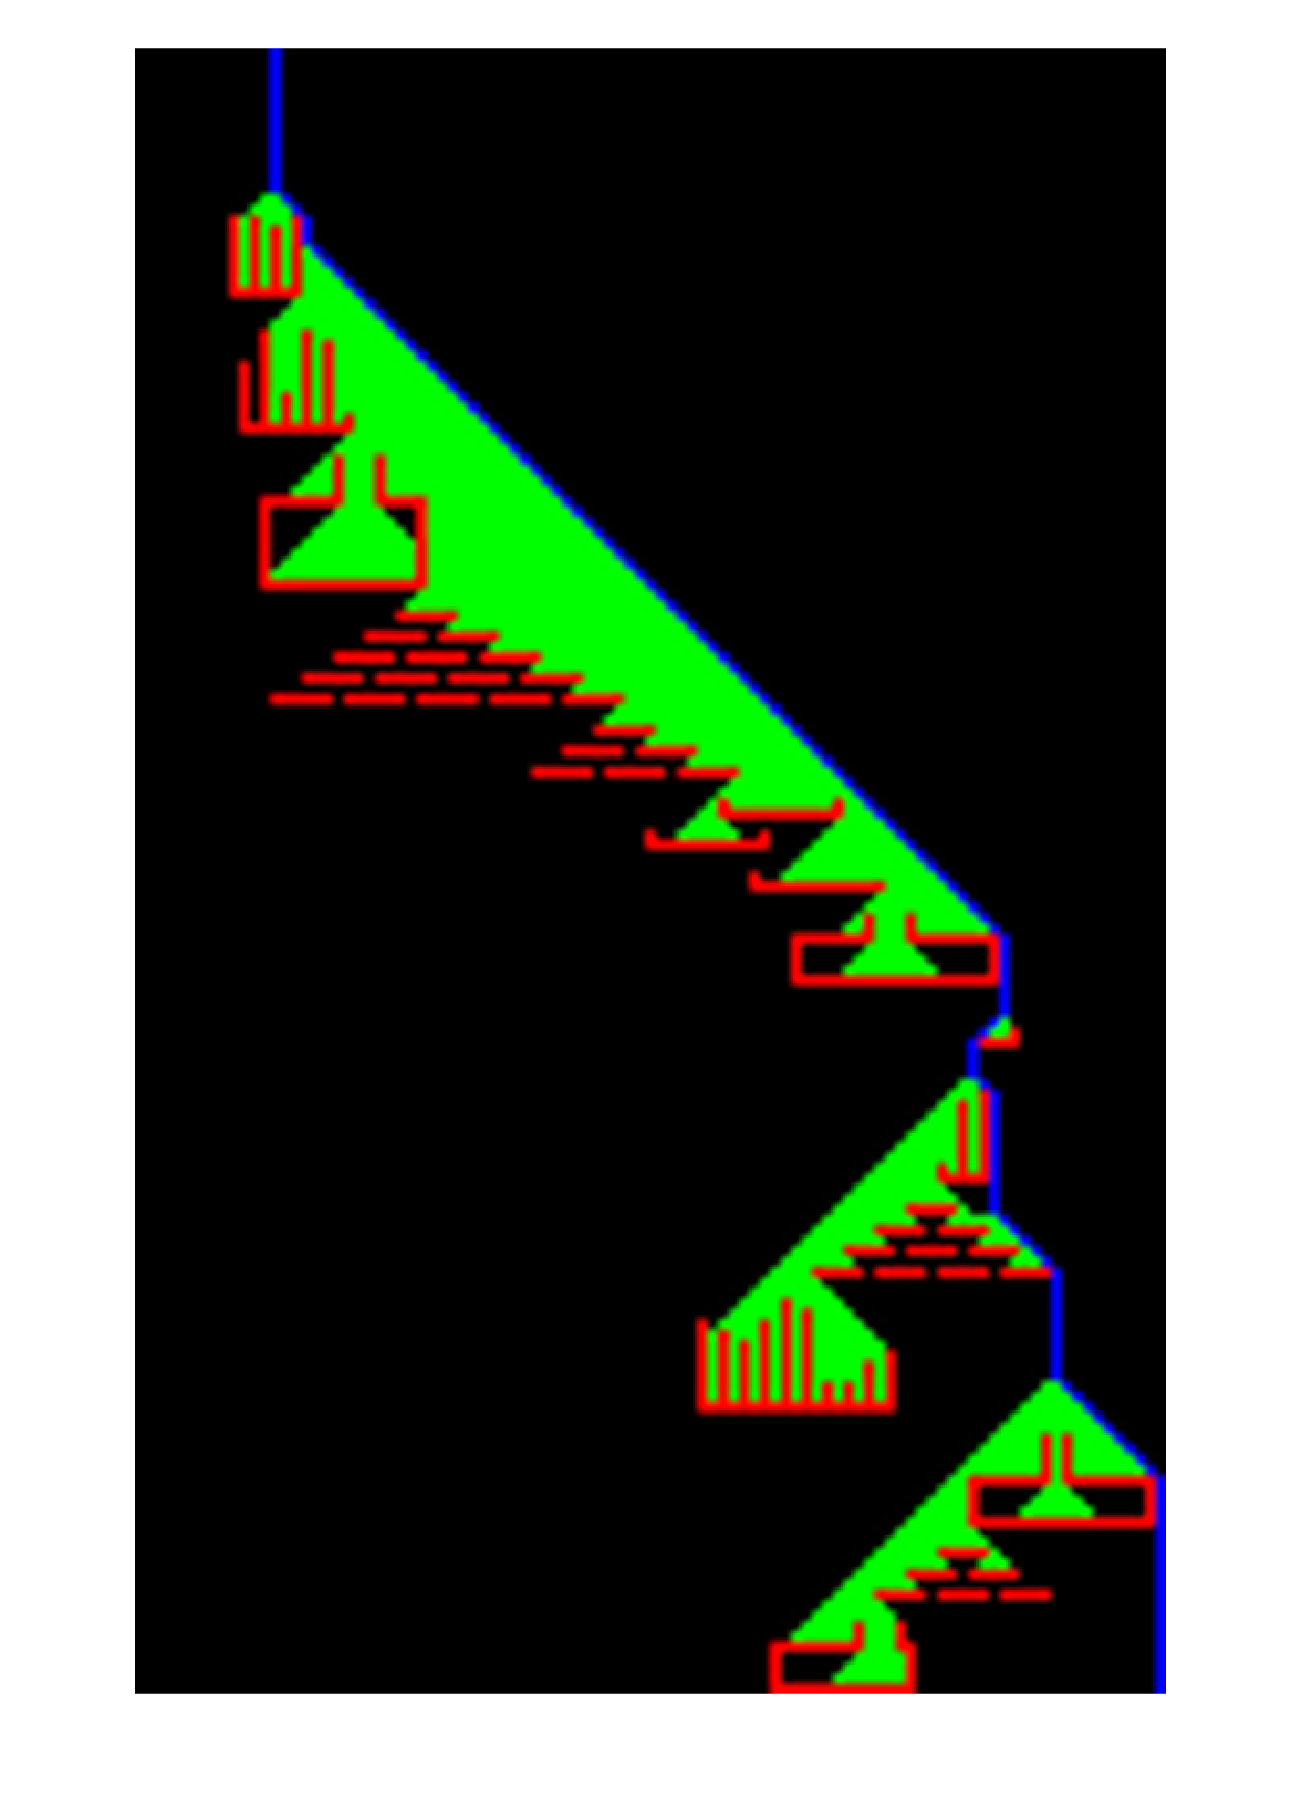
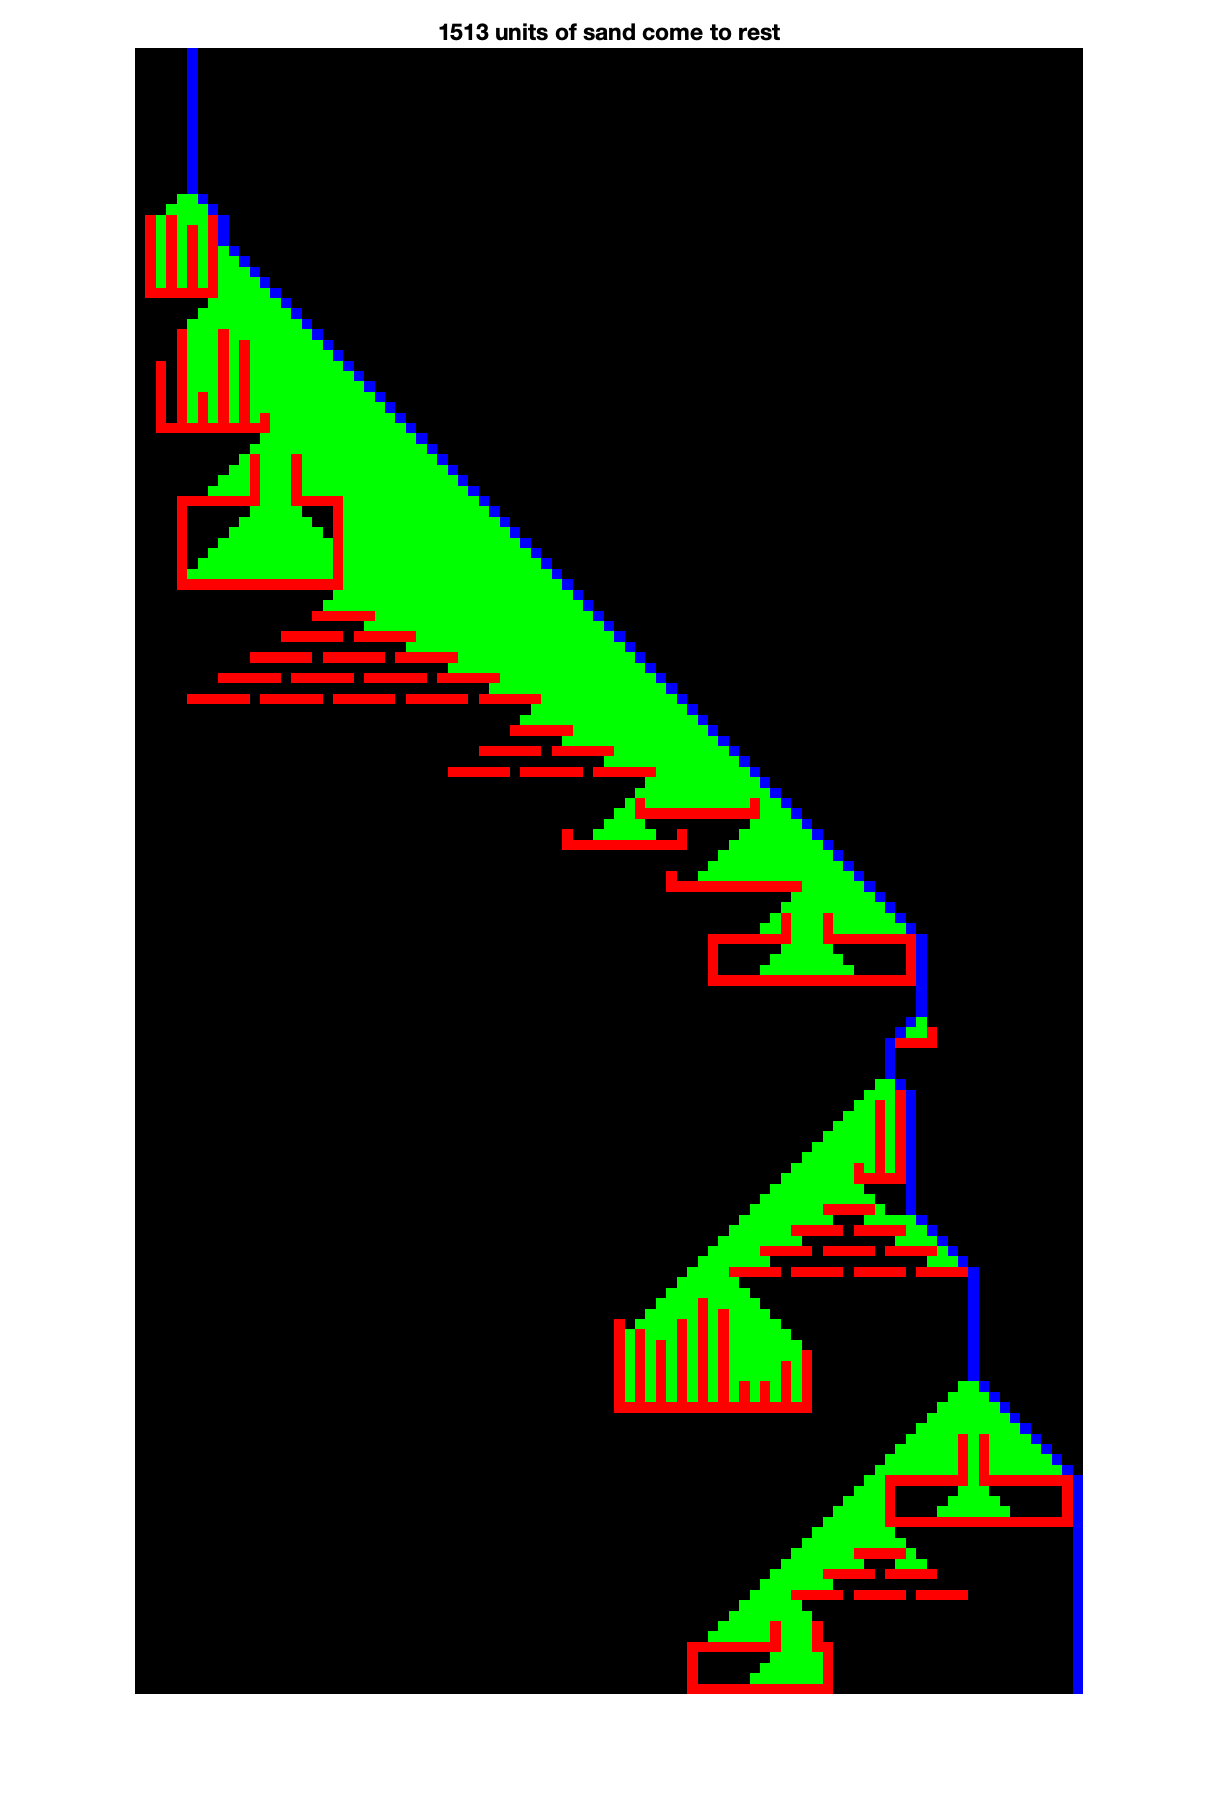
tweaked images, added titles

Changed region(s): [[0.0935, 0.0312, 0.904, 0.9677], [0.3741, 0.0, 0.6546, 0.0312]]

diff --git a/2022/Day 14/day14puzzle1.m b/2022/Day 14/day14puzzle1.m
@@ -59,7 +59,7 @@ day14puzzle1result = unit %#ok<NOPTS>
 
 %% visualise
 f = figure();
-cc = cave(:,find(any(cave == '+'),1)-10:end);
+cc = cave(:,find(any(cave == '+'),1)-2:end);
 img = ones(size(cc,1),size(cc,2),3);
 idxAll = false(size(cc));
 idxWall = cc == '#';
@@ -70,5 +70,6 @@ img(:,:,1) = idxWall;
 img(:,:,2) = idxSand;
 img(:,:,3) = idxLast;
 
-imshow(imresize(img,5))
+imshow(repelem(img,5,5))
+title(day14puzzle1result + " units of sand come to rest")
 saveas(f,'Puzzle1.png')

diff --git a/2022/Day 14/day14puzzle2.m b/2022/Day 14/day14puzzle2.m
@@ -59,7 +59,7 @@ day14puzzle2result = unit %#ok<NOPTS>
 
 %% visualise
 f = figure();
-cc = cave(:,find(any(cave == '+'),1)-10:end);
+cc = cave(:,find(any(cave == '+'),1)-2:end);
 img = ones(size(cc,1),size(cc,2),3);
 idxAll = false(size(cc));
 idxWall = cc == '#';
@@ -70,5 +70,6 @@ img(:,:,1) = idxWall;
 img(:,:,2) = idxSand;
 img(:,:,3) = idxLast;
 
-imshow(imresize(img,5))
+imshow(repelem(img,5,5))
+title(day14puzzle2result + " units of sand come to rest")
 saveas(f,'Puzzle2.png')
